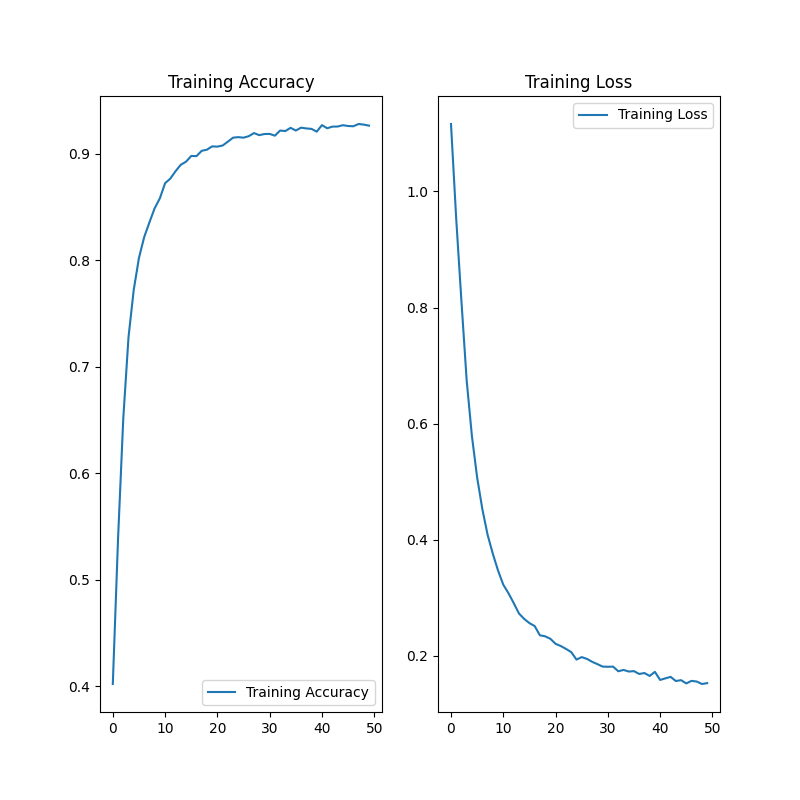
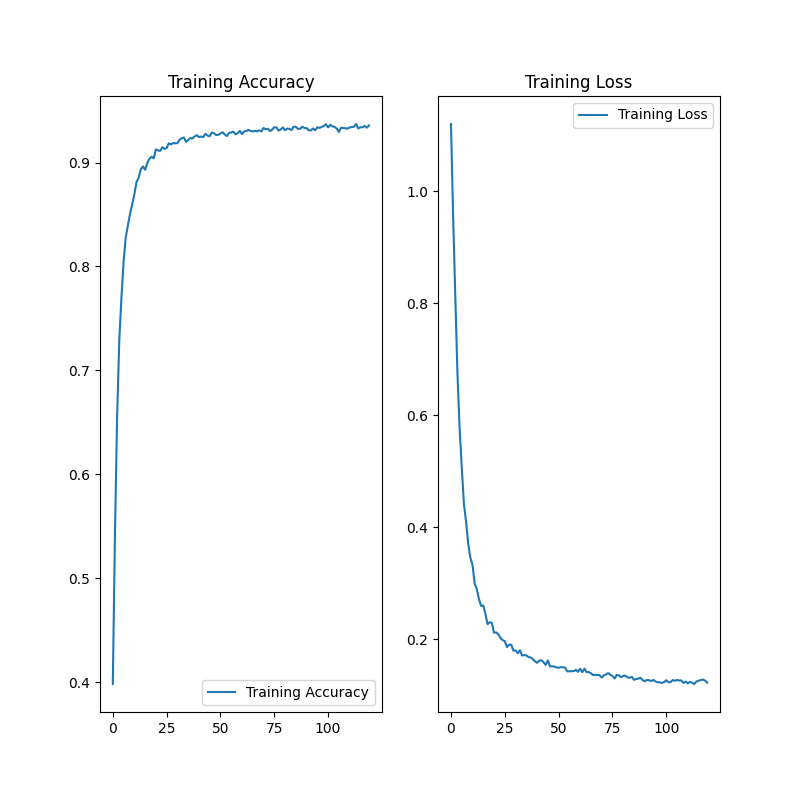
up

diff --git a/datasets_parse.py b/datasets_parse.py
@@ -1,7 +1,8 @@
 import re
 from os import listdir
 from json import dumps, load
-from config import maximalArrayItem
+from config import maximalArrayItem, ignored_texts
+from functions import updateEQ
 
 source = "datasets"
 intents = []
@@ -28,7 +29,7 @@ for fl in listdir(source):
              for message in messages:
                  if type(message["text"]) == str and len(message["text"]) > 0:
                     message["text"] = regrex_pattern.sub(r"", message["text"]).strip()
-                    if len(message["text"]) > 2:
+                    if len(message["text"]) > 2 and message["text"] not in ignored_texts:
                         if len(patterns) < maximalArrayItem and patternOrResponse(index) == "pattern":
                             patterns.append(message["text"].lower())
                         elif len(responses) < maximalArrayItem and patternOrResponse(index) == "response":
@@ -51,4 +52,5 @@ for fl in listdir(source):
 print("Saving intents to intents.json")
 with open("intents.json", "r+") as f:
     f.write(dumps({"intents": intents}, indent=4))
+    updateEQ()
     print("Intents saved")

diff --git a/main.py b/main.py
@@ -14,7 +14,7 @@ from functions import updateEQ
 
 # Intents
 intents = json.load(open("intents.json", "r"))
-updateEQ()
+
 # Vars
 words = []
 classes = []
@@ -55,7 +55,7 @@ for doc in documents:
 
 random.shuffle(training)
 training = np.array(training)
-epochs = 50
+epochs = 120
 
 # train x, y
 train_x = list(training[:, 0])

diff --git a/dl_models.py b/dl_models.py
@@ -1,7 +1,7 @@
 import requests
 
-url_pkl = "https://transfer.sh/1JV9QmM/data.pkl"
-url_model = "https://transfer.sh/14SHDgA/tensor_model.h5"
+url_pkl = "https://transfer.sh/1WGRFGq/data.pkl"
+url_model = "https://transfer.sh/1QyFvdN/tensor_model.h5"
 
 # Importing pickle file
 print("Downloading pickle data")

diff --git a/config.py b/config.py
@@ -1,1 +1,2 @@
 maximalArrayItem = 5000
+ignored_texts = ["welcome to pacar online"]
